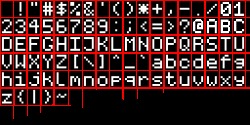
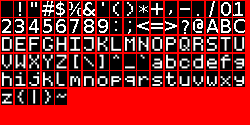
Work on GUI add option to print text

diff --git a/simulator/characters.h b/simulator/characters.h
@@ -7,99 +7,99 @@ struct Char
 };
 
 Char characters[] = {
-    {0, 0,      0,      0,      0,      0,      0,      0,      0,      0,      0,      0}, // ' '
-    {0, 0,      0,      0,      0,      0,      0,      0,      0,      0,      0,      0}, // !
-    {0, 0,      0,      0,      0,      0,      0,      0,      0,      0,      0,      0}, // "
-    {0, 0,      0,      0,      0,      0,      0,      0,      0,      0,      0,      0}, // #
-    {0, 0,      0,      0,      0,      0,      0,      0,      0,      0,      0,      0}, // $
-    {0, 0,      0,      0,      0,      0,      0,      0,      0,      0,      0,      0}, // %
-    {0, 0,      0,      0,      0,      0,      0,      0,      0,      0,      0,      0}, // &
-    {0, 0,      0,      0,      0,      0,      0,      0,      0,      0,      0,      0}, // '
-    {0, 0,      0,      0,      0,      0,      0,      0,      0,      0,      0,      0}, // (
-    {0, 0,      0,      0,      0,      0,      0,      0,      0,      0,      0,      0}, // )
-    {0, 0,      0,      0,      0,      0,      0,      0,      0,      0,      0,      0}, // *
-    {0, 0,      0,      0,      0,      0,      0,      0,      0,      0,      0,      0}, // +
-    {0, 0,      0,      0,      0,      0,      0,      0,      0,      0,      0,      0}, // ,
-    {0, 0,      0,      0,      0,      0,      0,      0,      0,      0,      0,      0}, // -
-    {0, 0,      0,      0,      0,      0,      0,      0,      0,      0,      0,      0}, // .
-    {0, 0,      0,      0,      0,      0,      0,      0,      0,      0,      0,      0}, // /
-    {0, 0x1FF8, 0x1FF8, 0x6066, 0x6066, 0x6186, 0x6186, 0x6606, 0x6606, 0x1FF8, 0x1FF8, 0}, // 0
-    {0, 0,      0,      0,      0,      0,      0,      0,      0,      0,      0,      0}, // 1
-    {0, 0,      0,      0,      0,      0,      0,      0,      0,      0,      0,      0}, // 2
-    {0, 0,      0,      0,      0,      0,      0,      0,      0,      0,      0,      0}, // 3
-    {0, 0,      0,      0,      0,      0,      0,      0,      0,      0,      0,      0}, // 4
-    {0, 0,      0,      0,      0,      0,      0,      0,      0,      0,      0,      0}, // 5
-    {0, 0,      0,      0,      0,      0,      0,      0,      0,      0,      0,      0}, // 6
-    {0, 0,      0,      0,      0,      0,      0,      0,      0,      0,      0,      0}, // 7
-    {0, 0,      0,      0,      0,      0,      0,      0,      0,      0,      0,      0}, // 8
-    {0, 0,      0,      0,      0,      0,      0,      0,      0,      0,      0,      0}, // 9
-    {0, 0,      0,      0,      0,      0,      0,      0,      0,      0,      0,      0}, // :
-    {0, 0,      0,      0,      0,      0,      0,      0,      0,      0,      0,      0}, // ;
-    {0, 0,      0,      0,      0,      0,      0,      0,      0,      0,      0,      0}, // <
-    {0, 0,      0,      0,      0,      0,      0,      0,      0,      0,      0,      0}, // =
-    {0, 0,      0,      0,      0,      0,      0,      0,      0,      0,      0,      0}, // >
-    {0, 0,      0,      0,      0,      0,      0,      0,      0,      0,      0,      0}, // ?
-    {0, 0,      0,      0,      0,      0,      0,      0,      0,      0,      0,      0}, // @
-    {0, 0,      0,      0,      0,      0,      0,      0,      0,      0,      0,      0}, // A
-    {0, 0,      0,      0,      0,      0,      0,      0,      0,      0,      0,      0}, // B
-    {0, 0,      0,      0,      0,      0,      0,      0,      0,      0,      0,      0}, // C
-    {0, 0,      0,      0,      0,      0,      0,      0,      0,      0,      0,      0}, // D
-    {0, 0,      0,      0,      0,      0,      0,      0,      0,      0,      0,      0}, // E
-    {0, 0,      0,      0,      0,      0,      0,      0,      0,      0,      0,      0}, // F
-    {0, 0,      0,      0,      0,      0,      0,      0,      0,      0,      0,      0}, // G
-    {0, 0,      0,      0,      0,      0,      0,      0,      0,      0,      0,      0}, // H
-    {0, 0,      0,      0,      0,      0,      0,      0,      0,      0,      0,      0}, // I
-    {0, 0,      0,      0,      0,      0,      0,      0,      0,      0,      0,      0}, // J
-    {0, 0,      0,      0,      0,      0,      0,      0,      0,      0,      0,      0}, // K
-    {0, 0,      0,      0,      0,      0,      0,      0,      0,      0,      0,      0}, // L
-    {0, 0,      0,      0,      0,      0,      0,      0,      0,      0,      0,      0}, // M
-    {0, 0,      0,      0,      0,      0,      0,      0,      0,      0,      0,      0}, // N
-    {0, 0,      0,      0,      0,      0,      0,      0,      0,      0,      0,      0}, // O
-    {0, 0,      0,      0,      0,      0,      0,      0,      0,      0,      0,      0}, // P
-    {0, 0,      0,      0,      0,      0,      0,      0,      0,      0,      0,      0}, // Q
-    {0, 0,      0,      0,      0,      0,      0,      0,      0,      0,      0,      0}, // R
-    {0, 0,      0,      0,      0,      0,      0,      0,      0,      0,      0,      0}, // S
-    {0, 0,      0,      0,      0,      0,      0,      0,      0,      0,      0,      0}, // T
-    {0, 0,      0,      0,      0,      0,      0,      0,      0,      0,      0,      0}, // U
-    {0, 0,      0,      0,      0,      0,      0,      0,      0,      0,      0,      0}, // V
-    {0, 0,      0,      0,      0,      0,      0,      0,      0,      0,      0,      0}, // W
-    {0, 0,      0,      0,      0,      0,      0,      0,      0,      0,      0,      0}, // X
-    {0, 0,      0,      0,      0,      0,      0,      0,      0,      0,      0,      0}, // Y
-    {0, 0,      0,      0,      0,      0,      0,      0,      0,      0,      0,      0}, // Z
-    {0, 0,      0,      0,      0,      0,      0,      0,      0,      0,      0,      0}, // [
-    {0, 0,      0,      0,      0,      0,      0,      0,      0,      0,      0,      0}, // "\"
-    {0, 0,      0,      0,      0,      0,      0,      0,      0,      0,      0,      0}, // ]
-    {0, 0,      0,      0,      0,      0,      0,      0,      0,      0,      0,      0}, // ^
-    {0, 0,      0,      0,      0,      0,      0,      0,      0,      0,      0,      0}, // _
-    {0, 0,      0,      0,      0,      0,      0,      0,      0,      0,      0,      0}, // `
-    {0, 0,      0,      0,      0,      0,      0,      0,      0,      0,      0,      0}, // a
-    {0, 0,      0,      0,      0,      0,      0,      0,      0,      0,      0,      0}, // b
-    {0, 0,      0,      0,      0,      0,      0,      0,      0,      0,      0,      0}, // c
-    {0, 0,      0,      0,      0,      0,      0,      0,      0,      0,      0,      0}, // d
-    {0, 0,      0,      0,      0,      0,      0,      0,      0,      0,      0,      0}, // e
-    {0, 0,      0,      0,      0,      0,      0,      0,      0,      0,      0,      0}, // f
-    {0, 0,      0,      0,      0,      0,      0,      0,      0,      0,      0,      0}, // g
-    {0, 0,      0,      0,      0,      0,      0,      0,      0,      0,      0,      0}, // h
-    {0, 0,      0,      0,      0,      0,      0,      0,      0,      0,      0,      0}, // i
-    {0, 0,      0,      0,      0,      0,      0,      0,      0,      0,      0,      0}, // j
-    {0, 0,      0,      0,      0,      0,      0,      0,      0,      0,      0,      0}, // k
-    {0, 0,      0,      0,      0,      0,      0,      0,      0,      0,      0,      0}, // l
-    {0, 0,      0,      0,      0,      0,      0,      0,      0,      0,      0,      0}, // m
-    {0, 0,      0,      0,      0,      0,      0,      0,      0,      0,      0,      0}, // n
-    {0, 0,      0,      0,      0,      0,      0,      0,      0,      0,      0,      0}, // o
-    {0, 0,      0,      0,      0,      0,      0,      0,      0,      0,      0,      0}, // p
-    {0, 0,      0,      0,      0,      0,      0,      0,      0,      0,      0,      0}, // q
-    {0, 0,      0,      0,      0,      0,      0,      0,      0,      0,      0,      0}, // r
-    {0, 0,      0,      0,      0,      0,      0,      0,      0,      0,      0,      0}, // s
-    {0, 0,      0,      0,      0,      0,      0,      0,      0,      0,      0,      0}, // t
-    {0, 0,      0,      0,      0,      0,      0,      0,      0,      0,      0,      0}, // u
-    {0, 0,      0,      0,      0,      0,      0,      0,      0,      0,      0,      0}, // v
-    {0, 0,      0,      0,      0,      0,      0,      0,      0,      0,      0,      0}, // w
-    {0, 0,      0,      0,      0,      0,      0,      0,      0,      0,      0,      0}, // x
-    {0, 0,      0,      0,      0,      0,      0,      0,      0,      0,      0,      0}, // y
-    {0, 0,      0,      0,      0,      0,      0,      0,      0,      0,      0,      0}, // z
-    {0, 0,      0,      0,      0,      0,      0,      0,      0,      0,      0,      0}, // {
-    {0, 0,      0,      0,      0,      0,      0,      0,      0,      0,      0,      0}, // |
-    {0, 0,      0,      0,      0,      0,      0,      0,      0,      0,      0,      0}, // }
-    {0, 0,      0,      0,      0,      0,      0,      0,      0,      0,      0,      0}, // ~
+    {0x0,    0x0,    0x0,    0x0,    0x0,    0x0,    0x0,    0x0,    0x0,    0x0,    0x0,    0x0   }, // " "
+    {0x0,    0x0,    0x0,    0x0,    0x0,    0x7fe6, 0x7fe6, 0x0,    0x0,    0x0,    0x0,    0x0   }, // "!"
+    {0x0,    0x0,    0x0,    0x7c00, 0x7c00, 0x0,    0x0,    0x7c00, 0x7c00, 0x0,    0x0,    0x0   }, // """
+    {0x60,   0xc60,  0xc66,  0xcfe,  0xfe0,  0xfc60, 0x8c62, 0xc7e,  0xff0,  0xfe60, 0xcc60, 0xc60 }, // "#"
+    {0x0,    0xe18,  0x1f0c, 0x3b0c, 0x338c, 0xffff, 0x318c, 0x319c, 0x18f8, 0x70,   0x0,    0x0   }, // "$"
+    {0x4080, 0x4082, 0x7f8c, 0x1e18, 0x60,   0xc0,   0x300,  0x600,  0x1878, 0x31fe, 0x4102, 0x102 }, // "%"
+    {0x78,   0xfc,   0x1fcc, 0x3f86, 0x7386, 0x61c6, 0x60ee, 0x607c, 0x3038, 0x7c,   0xee,   0xc6  }, // "&"
+    {0x0,    0x0,    0x0,    0x0,    0x0,    0x7800, 0x7800, 0x0,    0x0,    0x0,    0x0,    0x0   }, // "'"
+    {0x0,    0x0,    0x0,    0x7e0,  0x7e0,  0x1818, 0x1818, 0x6006, 0x6006, 0x0,    0x0,    0x0   }, // "("
+    {0x0,    0x0,    0x0,    0x6006, 0x6006, 0x1818, 0x1818, 0x7a0,  0x7e0,  0x0,    0x0,    0x0   }, // ")"
+    {0x0,    0x0,    0x420,  0x240,  0x240,  0x180,  0xff0,  0x180,  0x240,  0x240,  0x420,  0x0   }, // "*"
+    {0x180,  0x180,  0x180,  0x180,  0x180,  0x3ffc, 0x3ffc, 0x180,  0x180,  0x180,  0x180,  0x180 }, // "+"
+    {0x0,    0x0,    0x0,    0x0,    0xc,    0x78,   0x70,   0x0,    0x0,    0x0,    0x0,    0x0   }, // ","
+    {0x0,    0x180,  0x180,  0x180,  0x180,  0x180,  0x180,  0x180,  0x180,  0x180,  0x180,  0x0   }, // "-"
+    {0x0,    0x0,    0x0,    0x0,    0x0,    0x6,    0x6,    0x0,    0x0,    0x0,    0x0,    0x0   }, // "."
+    {0x0,    0x0,    0x0,    0x3,    0x3f,   0x3fc,  0x3fc0, 0xfc00, 0xc000, 0x0,    0x0,    0x0   }, // "/"
+    {0x0,    0xff0,  0x1ff8, 0x381c, 0x6006, 0x6006, 0x6006, 0x6006, 0x381c, 0x1ff8, 0xff0,  0x0   }, // "0"
+    {0x6,    0x2,    0x3006, 0x3006, 0x6006, 0x7ffe, 0x7ffe, 0x6,    0x6,    0x6,    0x0,    0x0   }, // "1"
+    {0x0,    0x3006, 0x600e, 0x601e, 0x603e, 0x6076, 0x60e6, 0x71c6, 0x3f06, 0x1e06, 0x0,    0x0   }, // "2"
+    {0x0,    0x300c, 0x6006, 0x6186, 0x6186, 0x6186, 0x6186, 0x73ce, 0x3efc, 0x1e78, 0x0,    0x0   }, // "3"
+    {0x0,    0x70,   0xf0,   0x3b0,  0xe30,  0x1830, 0x7030, 0x7ffe, 0x7ffe, 0x30,   0x30,   0x0   }, // "4"
+    {0x0,    0xc,    0x7f86, 0x7f06, 0x6306, 0x6306, 0x6306, 0x638c, 0x61fc, 0xf8,   0x0,    0x0   }, // "5"
+    {0x0,    0x7f0,  0x1ffc, 0x398c, 0x7106, 0x6306, 0x6306, 0x6306, 0x638e, 0x31fc, 0xf8,   0x0   }, // "6"
+    {0x0,    0x6000, 0x6000, 0x6002, 0x601e, 0x60fc, 0x63e0, 0x7f80, 0x7c00, 0x6000, 0x0,    0x0   }, // "7"
+    {0x0,    0x1c78, 0x3efc, 0x73ce, 0x6186, 0x6186, 0x6186, 0x6186, 0x73ce, 0x3efc, 0x1c78, 0x0   }, // "8"
+    {0x0,    0x1f00, 0x3f8c, 0x71c6, 0x60c6, 0x60c6, 0x60c6, 0x608e, 0x319c, 0x3ff8, 0xfe0,  0x0   }, // "9"
+    {0x0,    0x0,    0x0,    0x0,    0x0,    0x1818, 0x1818, 0x0,    0x0,    0x0,    0x0,    0x0   }, // ":"
+    {0x0,    0x0,    0x0,    0x0,    0x3,    0x181e, 0x181c, 0x0,    0x0,    0x0,    0x0,    0x0   }, // ";"
+    {0x180,  0x180,  0x3c0,  0x3c0,  0x3c0,  0x660,  0x660,  0x660,  0xc30,  0xc30,  0xc30,  0x1818}, // "<"
+    {0x660,  0x660,  0x660,  0x660,  0x660,  0x660,  0x660,  0x660,  0x660,  0x660,  0x660,  0x660 }, // "="
+    {0x1818, 0xc30,  0xc30,  0xc30,  0x660,  0x660,  0x660,  0x3c0,  0x3c0,  0x3c0,  0x180,  0x180 }, // ">"
+    {0x0,    0x0,    0x0,    0x1800, 0x3000, 0x303b, 0x30fb, 0x39c0, 0x1f00, 0xe00,  0x0,    0x0   }, // "?"
+    {0x0,    0xff0,  0x1ff8, 0x2004, 0x6006, 0x63c6, 0x67e6, 0x6666, 0x6666, 0x3fe6, 0x1fc0, 0x0   }, // "@"
+    {0x0,    0x1e,   0x7c,   0x3f0,  0x1fb0, 0x7c30, 0x7030, 0x7c30, 0x1fb0, 0x3f0,  0x7c,   0x1e  }, // "A"
+    {0x0,    0x7ffe, 0x7ffe, 0x6186, 0x6186, 0x6186, 0x6186, 0x7386, 0x3fce, 0x1e7c, 0x38,   0x0   }, // "B"
+    {0x0,    0x7e0,  0x1ff8, 0x381c, 0x300c, 0x6006, 0x6006, 0x6006, 0x6006, 0x6006, 0x6006, 0x300c}, // "C"
+    {0x0,    0x7ffc, 0x7ffc, 0x6004, 0x6004, 0x6004, 0x6004, 0x6004, 0x0,    0x1ff8, 0x0,    0x0   }, // "D"
+    {0x0,    0x0,    0x7ffc, 0x6184, 0x6184, 0x6184, 0x6184, 0x6184, 0x6184, 0x6004, 0x6004, 0x0   }, // "E"
+    {0x0,    0x0,    0x7ffc, 0x6180, 0x6180, 0x6180, 0x6180, 0x6180, 0x6180, 0x6000, 0x6000, 0x0   }, // "F"
+    {0x0,    0x1ff8, 0x1ff0, 0x6004, 0x6004, 0x6004, 0x6004, 0x6064, 0x60,   0x1878, 0x0,    0x0   }, // "G"
+    {0x0,    0x0,    0x7ffc, 0x180,  0x180,  0x180,  0x180,  0x180,  0x180,  0x180,  0x7ffc, 0x0   }, // "H"
+    {0x0,    0x0,    0x6004, 0x6004, 0x6004, 0x700c, 0x7ffc, 0x6004, 0x6004, 0x6004, 0x6004, 0x0   }, // "I"
+    {0x0,    0x6018, 0x6010, 0x6004, 0x6004, 0x6004, 0x6004, 0x6004, 0x6004, 0x7ff8, 0x0,    0x0   }, // "J"
+    {0x0,    0x7ffc, 0x180,  0x180,  0x180,  0x180,  0x0,    0x660,  0x0,    0x781c, 0x0,    0x0   }, // "K"
+    {0x0,    0x0,    0x7ffc, 0x4,    0x4,    0x4,    0x4,    0x4,    0x4,    0x4,    0x4,    0x0   }, // "L"
+    {0x0,    0x7ffc, 0x7ffc, 0x1800, 0x1800, 0x600,  0x600,  0x1800, 0x1800, 0x7ffc, 0x0,    0x0   }, // "M"
+    {0x0,    0x0,    0x7ffc, 0x600,  0x600,  0x0,    0x180,  0x0,    0x60,   0x60,   0x7ffc, 0x0   }, // "N"
+    {0x0,    0x0,    0x1ff8, 0x0,    0x6004, 0x6004, 0x6004, 0x6004, 0x6004, 0x1ff0, 0x1ff8, 0x0   }, // "O"
+    {0x0,    0x7ffc, 0x7ffc, 0x6180, 0x6180, 0x6180, 0x6180, 0x6180, 0x2100, 0x1e00, 0x0,    0x0   }, // "P"
+    {0x0,    0x1ff8, 0x0,    0x6004, 0x6004, 0x6064, 0x6000, 0x6018, 0x0,    0x1fe4, 0x0,    0x0   }, // "Q"
+    {0x0,    0x0,    0x7ffc, 0x6180, 0x6180, 0x6180, 0x6180, 0x6180, 0x6180, 0xe7c,  0x1e7c, 0x0   }, // "R"
+    {0x0,    0x1e04, 0x1e04, 0x6184, 0x6184, 0x6184, 0x6184, 0x6184, 0x6184, 0x6078, 0x2070, 0x0   }, // "S"
+    {0x0,    0x6000, 0x6000, 0x6000, 0x6000, 0x7ffc, 0x6000, 0x6000, 0x6000, 0x6000, 0x0,    0x0   }, // "T"
+    {0x0,    0x0,    0x7ff8, 0x0,    0x4,    0x4,    0x4,    0x4,    0x4,    0x3ff0, 0x7ff8, 0x0   }, // "U"
+    {0x0,    0x7fc0, 0x7fc0, 0x10,   0x10,   0x4,    0x4,    0x10,   0x0,    0x7fc0, 0x0,    0x0   }, // "V"
+    {0x0,    0x0,    0x7ffc, 0x30,   0x10,   0x0,    0x40,   0x0,    0x10,   0x30,   0x7ffc, 0x0   }, // "W"
+    {0x0,    0x0,    0x701c, 0x0,    0x440,  0x100,  0x100,  0x440,  0x440,  0x701c, 0x701c, 0x0   }, // "X"
+    {0x0,    0x7000, 0x7000, 0x400,  0x400,  0x1fc,  0x1fc,  0x400,  0x0,    0x7000, 0x0,    0x0   }, // "Y"
+    {0x0,    0x0,    0x401c, 0x400c, 0x4044, 0x4004, 0x4104, 0x4004, 0x4404, 0x6004, 0x7004, 0x0   }, // "Z"
+    {0x0,    0x0,    0x0,    0x0,    0x0,    0x0,    0x7ffc, 0x4004, 0x4004, 0x0,    0x0,    0x0   }, // "["
+    {0x0,    0x1000, 0x1000, 0x400,  0x400,  0x100,  0x100,  0x40,   0x40,   0x10,   0x0,    0x0   }, // "\"
+    {0x0,    0x0,    0x0,    0x4004, 0x6004, 0x7ffc, 0x0,    0x0,    0x0,    0x0,    0x0,    0x0   }, // "]"
+    {0x0,    0x0,    0x0,    0x0,    0x1000, 0x0,    0x4000, 0x1000, 0x1000, 0x0,    0x0,    0x0   }, // "^"
+    {0x0,    0x4,    0x4,    0x4,    0x4,    0x4,    0x4,    0x4,    0x4,    0x4,    0x0,    0x0   }, // "_"
+    {0x0,    0x0,    0x0,    0x0,    0x4000, 0x0,    0x1000, 0x0,    0x0,    0x0,    0x0,    0x0   }, // "`"
+    {0x0,    0x0,    0x10,   0x0,    0x444,  0x444,  0x444,  0x444,  0x444,  0x1fc,  0x1fc,  0x0   }, // "a"
+    {0x0,    0x7ffc, 0x7ffc, 0x404,  0x404,  0x404,  0x404,  0x404,  0x404,  0x1f0,  0x0,    0x0   }, // "b"
+    {0x0,    0x1f0,  0x0,    0x404,  0x404,  0x404,  0x404,  0x404,  0x0,    0x110,  0x0,    0x0   }, // "c"
+    {0x0,    0x0,    0x1f0,  0x0,    0x404,  0x404,  0x404,  0x404,  0x404,  0x7ffc, 0x7ffc, 0x0   }, // "d"
+    {0x0,    0x1f0,  0x1f0,  0x444,  0x444,  0x444,  0x444,  0x444,  0x444,  0x1c4,  0x1c4,  0x0   }, // "e"
+    {0x0,    0x400,  0x400,  0x1ffc, 0x600,  0x4400, 0x4400, 0x4400, 0x400,  0x400,  0x0,    0x0   }, // "f"
+    {0x0,    0x0,    0x100,  0x0,    0x444,  0x444,  0x444,  0x444,  0x444,  0x7f0,  0x7f0,  0x0   }, // "g"
+    {0x0,    0x3ffe, 0x3ffe, 0x600,  0x600,  0x600,  0x600,  0x600,  0x0,    0x1fe,  0x0,    0x0   }, // "h"
+    {0x0,    0x0,    0x606,  0x606,  0x606,  0x606,  0x27fe, 0x6,    0x6,    0x6,    0x6,    0x0   }, // "i"
+    {0x0,    0x0,    0x18,   0x0,    0x6,    0x206,  0x606,  0x606,  0x606,  0x27f8, 0x27f8, 0x0   }, // "j"
+    {0x0,    0x3ffe, 0x3ffe, 0x180,  0x180,  0x180,  0x80,   0x660,  0x0,    0x1e,   0x0,    0x0   }, // "k"
+    {0x0,    0x0,    0x3ff8, 0x0,    0x6,    0x6,    0x6,    0x6,    0x6,    0x0,    0x0,    0x0   }, // "l"
+    {0x0,    0x0,    0x7fe,  0x600,  0x600,  0x0,    0x1e0,  0x200,  0x600,  0xfe,   0x1fe,  0x0   }, // "m"
+    {0x0,    0x7fe,  0x7fe,  0x600,  0x600,  0x600,  0x600,  0x600,  0x200,  0x1fe,  0x0,    0x0   }, // "n"
+    {0x0,    0x1f8,  0x0,    0x606,  0x606,  0x606,  0x606,  0x606,  0x0,    0x1f8,  0x0,    0x0   }, // "o"
+    {0x0,    0x0,    0x7fe,  0x660,  0x660,  0x660,  0x660,  0x660,  0x660,  0x80,   0x180,  0x0   }, // "p"
+    {0x0,    0x180,  0x180,  0x660,  0x660,  0x660,  0x660,  0x660,  0x660,  0x7fe,  0x0,    0x0   }, // "q"
+    {0x0,    0x0,    0x7fe,  0x180,  0x180,  0x0,    0x600,  0x600,  0x600,  0x0,    0x180,  0x0   }, // "r"
+    {0x0,    0x0,    0x186,  0x6,    0x666,  0x666,  0x666,  0x666,  0x666,  0x618,  0x618,  0x0   }, // "s"
+    {0x0,    0x600,  0x600,  0x3ff8, 0x3ff8, 0x606,  0x606,  0x606,  0x204,  0x18,   0x0,    0x0   }, // "t"
+    {0x0,    0x7f8,  0x0,    0x6,    0x6,    0x6,    0x6,    0x6,    0x6,    0x7fe,  0x0,    0x0   }, // "u"
+    {0x0,    0x0,    0x7e0,  0x0,    0x18,   0x0,    0x6,    0x0,    0x18,   0x3e0,  0x7e0,  0x0   }, // "v"
+    {0x0,    0x7f8,  0x7f8,  0x6,    0x6,    0x18,   0x18,   0x6,    0x6,    0x7f8,  0x3f0,  0x0   }, // "w"
+    {0x0,    0x606,  0x0,    0x198,  0x0,    0x60,   0x0,    0x198,  0x0,    0x606,  0x0,    0x0   }, // "x"
+    {0x0,    0x0,    0x780,  0x0,    0x66,   0x66,   0x66,   0x66,   0x66,   0x3f8,  0x7f8,  0x0   }, // "y"
+    {0x0,    0x404,  0x404,  0x41c,  0x41c,  0x444,  0x444,  0x704,  0x604,  0x404,  0x0,    0x0   }, // "z"
+    {0x0,    0x0,    0x0,    0x100,  0x0,    0x1c70, 0x0,    0x6004, 0x0,    0x0,    0x0,    0x0   }, // "{"
+    {0x0,    0x0,    0x0,    0x0,    0x0,    0x7ffc, 0x7ffc, 0x0,    0x0,    0x0,    0x0,    0x0   }, // "|"
+    {0x0,    0x0,    0x0,    0x6004, 0x4004, 0x1c70, 0x1c70, 0x100,  0x0,    0x0,    0x0,    0x0   }, // "}"
+    {0x0,    0x0,    0x100,  0x0,    0x400,  0x0,    0x100,  0x100,  0x100,  0x0,    0x400,  0x0   }, // "~"
 };

diff --git a/simulator/img.py b/simulator/img.py
@@ -1,0 +1,82 @@
+#/bin/python3
+from PIL import Image
+
+im = Image.open('font.png') # Can be many different formats.
+pix = im.load()
+width = im.width
+height = im.height
+print (width)  
+print (height)  
+print (pix[0,0])  
+print (pix[1,1]) 
+print (pix[2,2]) 
+#arr = [[[0]*12]*18]*6 
+arr = [[[0 for _ in range(12)] for _ in range(18)] for _ in range(6)]
+x=5
+y=5
+tresh = 200
+
+l=0
+detected = False
+detected2 = False
+yb=0
+xb=0
+        
+for h in range(height):
+    if pix[x,h] == (255, 0, 0, 255) :
+        yb=-1
+        if detected:
+            print("Start new line")
+            l = l+1
+            detected = False
+        continue
+    yb=yb+1
+    i=0    
+    for w in range(width):
+    
+        #print("w {} h {} i {} xb {} yb {} P {}".format(w,h,i, xb+1,yb , pix[w,h]))
+        if pix[w,h] == (255, 0, 0, 255):
+            xb=-1
+            if detected2:
+                i=i+1
+                detected2 = False
+        else:
+            xb=xb+1
+            if pix[w,h] == (0, 0, 0, 255):
+                detected = True
+                detected2 = True
+                
+            if pix[w,h][0] > tresh and pix[w,h][1] > tresh and pix[w,h][2] > tresh:
+                detected = True
+                detected2 = True
+                mask = 1 << (15-yb)
+                print (pix[w,h])
+                print("w {} h {} i {} xb {} yb {} P {}".format(w,h,i, xb+1,yb , pix[w,h]))
+                print("WHOO {} {} {} {} |= {}".format(l, i, xb, yb, mask))
+                arr[l][i][xb] |= mask #pix[w,h][0]
+
+#exit(0)
+print()
+print()
+print()
+
+c = ord(' ')
+for i in range(6):
+    for y in range(18):
+        s="{"
+        first=True
+        
+        for x in range(12):
+            if not first:
+                s+=", "
+            first=False
+            s += hex(arr[i][y][x])
+        
+        s+="}, "
+        s+= "// \"{}\"".format(chr(c))
+        c=c+1
+        print(s)
+        
+        
+        
+        

diff --git a/simulator/window.cpp b/simulator/window.cpp
@@ -159,22 +159,22 @@ void Window::DrawPinStatus(uint16_t x, uint16_t y, uint8_t pin)
 {
     const PinStatus& status = GetPinStatus(pin);
 
-    DrawBox(x, y, ModeToColor(status.mode));
-    DrawBox(x + 16, y, status.value > 0 ? color.green : color.red);
-    for (uint16_t i = 0; i < status.value && i + 32 < width; i++)
+    PrintfText(pixels, x, y, color.black, "%d", pin);
+    uint8_t offset = 24;
+
+    DrawBox(x + offset, y, ModeToColor(status.mode));
+    offset += 16;
+    DrawBox(x + offset, y, status.value > 0 ? color.green : color.red);
+    offset += 16;
+    for (uint16_t i = 0; i < status.value && i + offset < width; i++)
     {
-        DrawLine(x + 32 + i, y, x + 32 + i, y + 16, color.blue);
+        DrawLine(x + offset + i, y, x + offset + i, y + 16, color.blue);
     }
 }
 
 void Window::Draw(void)
 {
     Clear();
-
-    DrawLine(10, 40, 100, 450, {255, 0, 0});
-    DrawLine(400, 100, 10, 450, {0, 255, 0});
-    DrawLine(610, 450, 20, 100, {0, 0, 255});
-
     uint16_t y = 0;
 
     for (uint8_t i = 0; i < 20; i++)
@@ -182,8 +182,6 @@ void Window::Draw(void)
         DrawPinStatus(100, y, i);
         y += 16;
     }
-
-    PrintText(pixels, 200, 400, color.black, "0123456789");
 }
 
 void Window::OpenWindow(void)

diff --git a/simulator/textRender.cpp b/simulator/textRender.cpp
@@ -1,3 +1,5 @@
+#include <stdarg.h>
+
 #include "stdint.h"
 #include "textRender.h"
 #include "characters.h"
@@ -22,4 +24,17 @@ void PrintText(Pixel pixels[heigth][width], uint16_t x, const uint16_t y, const 
             }
         }
     }
+}
+
+#define PRINT_BUF_LEN 100
+void PrintfText(Pixel pixels[heigth][width], uint16_t x, const uint16_t y, const Pixel& color, const char* fmt, ...)
+{
+    static char buf[PRINT_BUF_LEN];
+    va_list va;
+
+    va_start(va, fmt);
+    vsnprintf(buf, PRINT_BUF_LEN, fmt, va);
+    va_end(va);
+
+    PrintText(pixels, x,y,color,buf);
 }

diff --git a/simulator/textRender.h b/simulator/textRender.h
@@ -7,3 +7,4 @@
 #include "windowSize.h"
 
 void PrintText(Pixel pixels[heigth][width], uint16_t x, const uint16_t y, const Pixel &color, const std::string text);
+void PrintfText(Pixel pixels[heigth][width], uint16_t x, const uint16_t y, const Pixel& color, const char* fmt, ...);

diff --git a/simulator/ArduinoStub/Arduino.h b/simulator/ArduinoStub/Arduino.h
@@ -35,7 +35,7 @@ PinStatus& GetPinStatus(uint8_t pinNum);
 
 
 void pinMode(uint8_t pinNum, uint8_t mode);
-void digitalWrite(uint8_t pin, uint8_t val);
+void digitalWrite(uint8_t pin, uint16_t val);
 int16_t analogRead(uint8_t pin);
 int16_t digitalRead(uint8_t pin);
 

diff --git a/simulator/ArduinoStub/Arduino.cpp b/simulator/ArduinoStub/Arduino.cpp
@@ -30,7 +30,7 @@ void pinMode(uint8_t pinNum, uint8_t mode)
     GetPinStatus(pinNum).mode = static_cast<PinMode>(mode);
 }
 
-void digitalWrite(uint8_t pin, uint8_t val)
+void digitalWrite(uint8_t pin, uint16_t val)
 {
     GetPinStatus(pin).value = val;
 }
